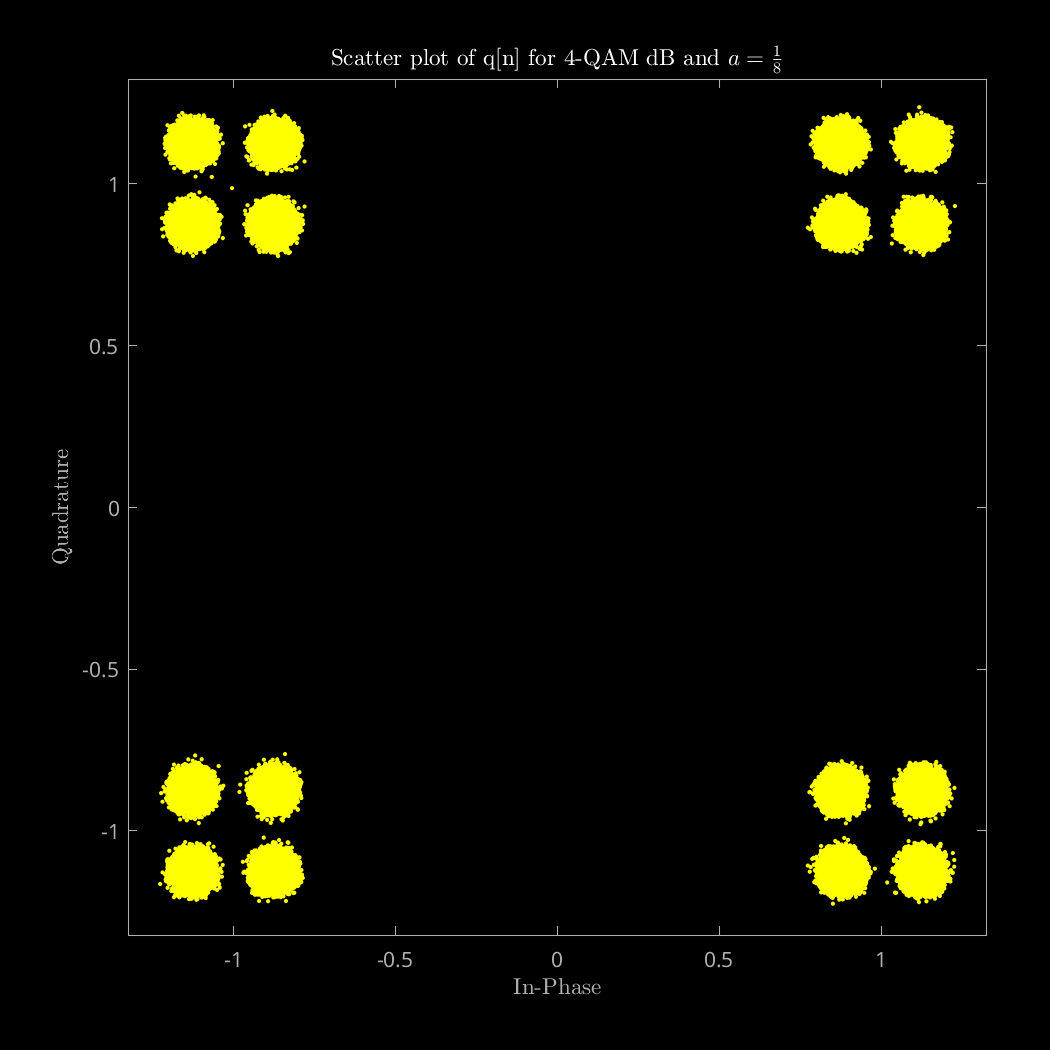
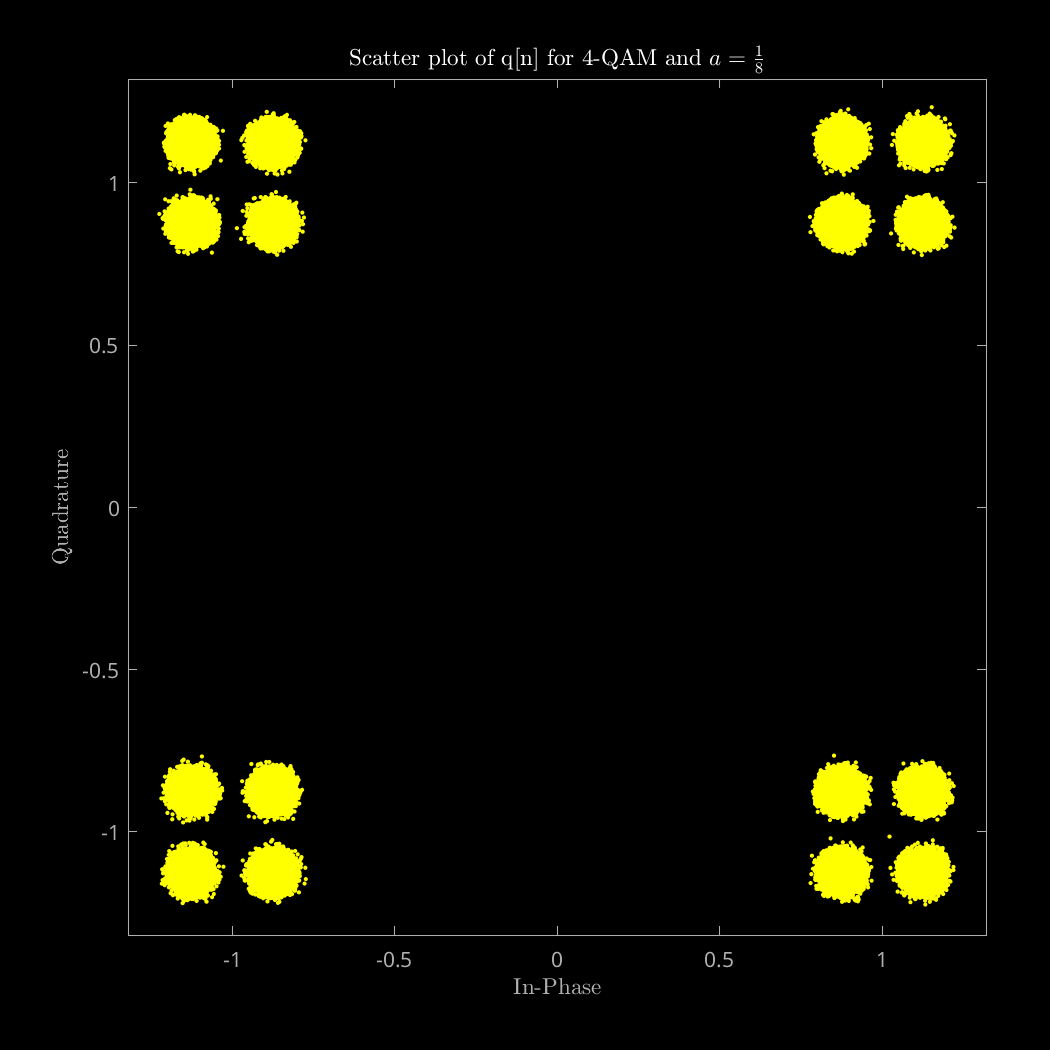
Fix typo in section 2

diff --git a/code/section2.m b/code/section2.m
@@ -74,7 +74,7 @@ function [q] = experiment2(M, nSimb, SNR_dB, Es, p, A, a)
 
     % Plot
     scatterplot(q);
-    title(sprintf('Scatter plot of q[n] for %d-QAM dB and $a=\\frac{1}{%d}$', M, 1/a))
+    title(sprintf('Scatter plot of q[n] for %d-QAM and $a=\\frac{1}{%d}$', M, 1/a))
 end
 
 %% Section 2.1. (p = δ[n] + a δ[n-1])
